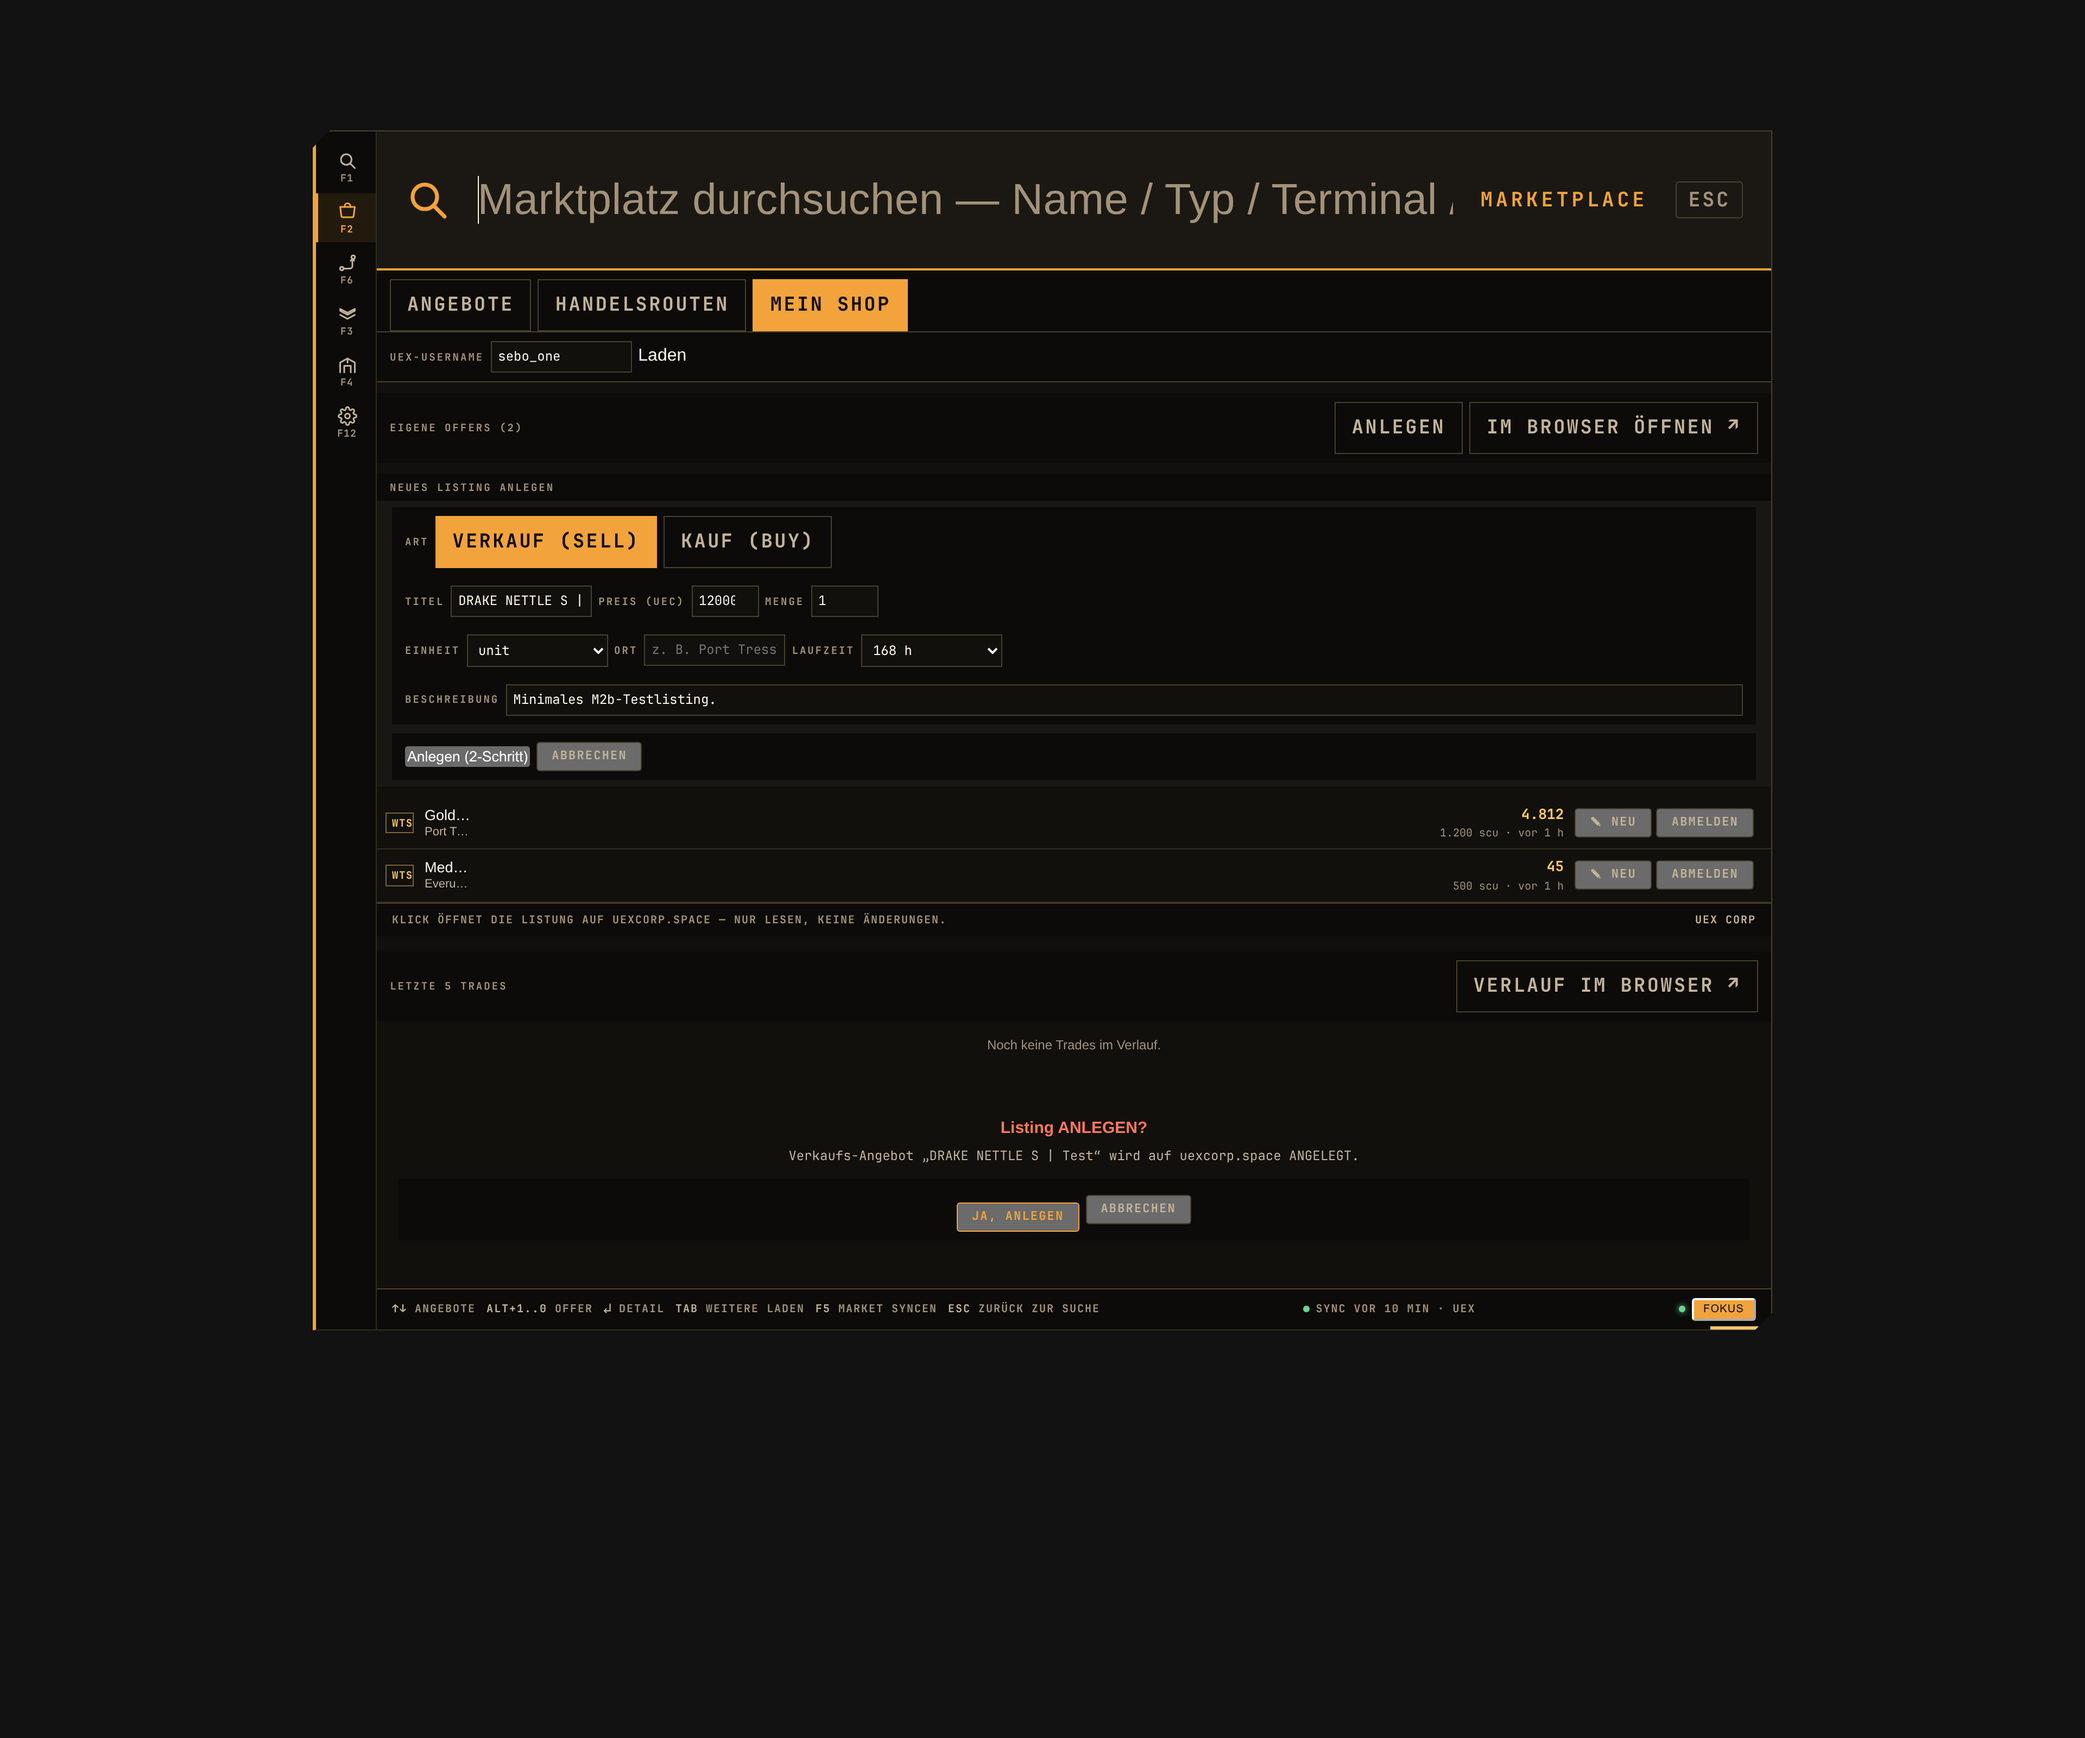
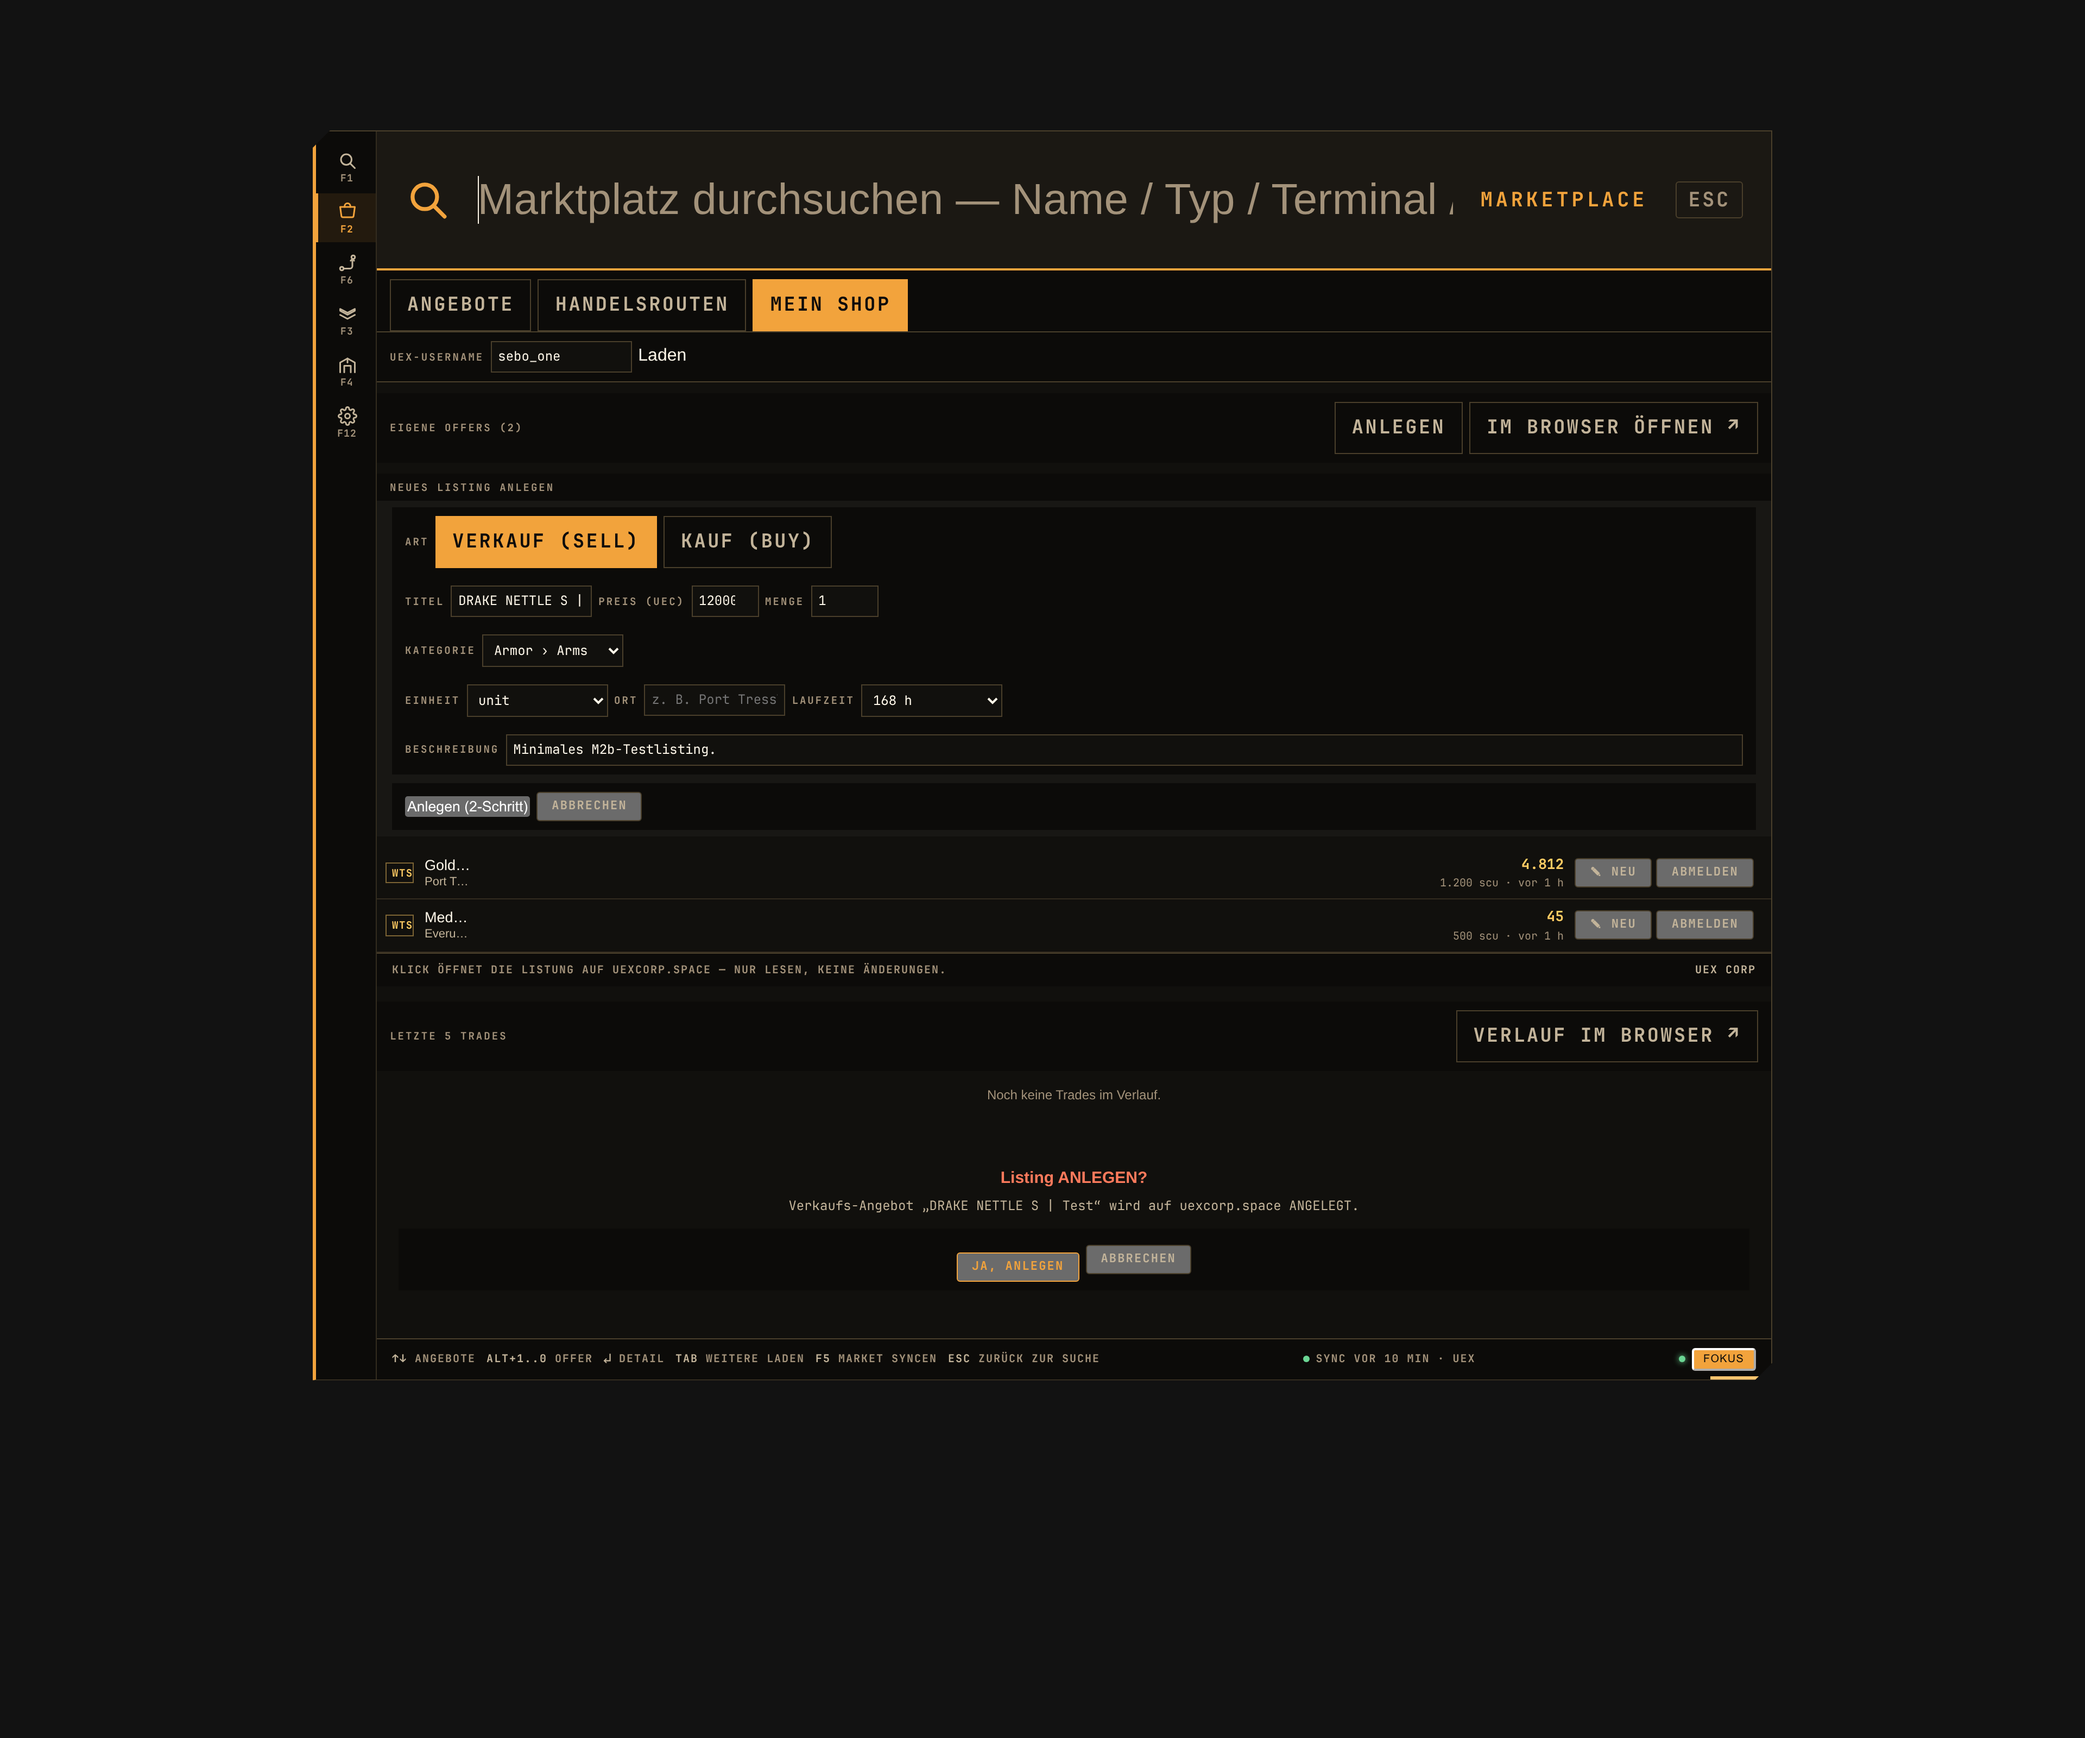
M2b Fix t_6e26ec82 (Belege): Probe W5 Kategorie-Pflicht — Dropdown geladen, OHNE Auswahl kein Confirm + deutsche Meldung + kein Write (marketplace_advertise-Zähler 0), Payload-Assertion id_category>0; get_categories-Stub (Section›Name), Screenshots W1 (mit Kategorie) + W5 (blockiert)

diff --git a/docs/scripts/smoke-stub.js b/docs/scripts/smoke-stub.js
@@ -172,7 +172,7 @@ window.__TAURI_INTERNALS__ = {
 				// Neues Listing an den OWN-OFFERS-Array anfügen (Pull im UI zeigt es).
 				window.__SHOP_OFFERS__ = [{
 					id: nid, title: p.title || 'Neu', description: p.description || '',
-					item_id: 0, category_id: 0, operation: p.operation || 'sell',
+					item_id: 0, category_id: Number(p.id_category || 0), operation: p.operation || 'sell',
 					listing_type: 'item', price: Number(p.price || 0), currency: 'UEC',
 					unit: p.unit || 'unit', quantity: Number(p.in_stock || 1),
 					location: p.location || '—', region: 'Stanton', seller: stubState.uex_username || 'sebo_one',
@@ -193,6 +193,16 @@ window.__TAURI_INTERNALS__ = {
 			case 'settings_set_marketplace_confirm':
 				stubState.marketplace_confirm = a.mode || 'every_action';
 				return { marketplace_confirm: stubState.marketplace_confirm };
+			case 'get_categories':
+				// M2b-Review-Fix (t_6e26ec82): Kategorien für die Anlegen-Form —
+				// UEX /categories (id + Anzeigename), Mirror der Provider-DTOs.
+				return [
+					{ id: 1, name: 'Arms', section: 'Armor' },
+					{ id: 2, name: 'Backpacks', section: 'Armor' },
+					{ id: 3, name: 'Armor', section: null },
+					{ id: 4, name: 'Weapons', section: null },
+					{ id: 5, name: 'MedPens', section: null }
+				];
 			case 'open_marketplace_listing':
 				// Nur Tracken — kein echtes Browserfenster im Headless-Smoke.
 				return 'https://uexcorp.space/marketplace/item/info/' + encodeURIComponent(a.slug || '');

diff --git a/docs/scripts/shop-write-probe.py b/docs/scripts/shop-write-probe.py
@@ -202,6 +202,8 @@ async def main():
 
         # Pflichtangaben füllen (Titel + Beschreibung; Preis/Menge explizit —
         # emptyAdvertise startet price:'' und die App lehnt leeren Preis korrekt ab).
+        # M2b-Review-Fix: Kategorie ist Pflicht (id_category) — im <select>
+        # die erste angebotene Kategorie wählen.
         fill = ("(function(){"
                 "function setVal(sel,v){var i=typeof sel==='string'?document.querySelector(sel):sel;"
                 "var set=Object.getOwnPropertyDescriptor(window.HTMLInputElement.prototype,'value').set;"
@@ -209,6 +211,8 @@ async def main():
                 "setVal('input[placeholder*=Artikelname]','DRAKE NETTLE S | Test');"
                 "setVal('input[placeholder*=Freitext]','Minimales M2b-Testlisting.');"
                 "setVal(document.querySelectorAll('input.qnum')[0],'120000');"
+                "var cat=document.querySelector('select[aria-label=Kategorie]');"
+                "if(cat){cat.value=cat.options[1].value;cat.dispatchEvent(new Event('change',{bubbles:true}));}"
                 "return true;})()")
         await js(fill)
         await asyncio.sleep(0.3)
@@ -233,6 +237,17 @@ async def main():
         after = json.loads(str(await js("JSON.stringify(window.__calls||[])")) or "[]")
         adv = [c for c in after if "marketplace_advertise" in c]
         check("w1-marketplace_advertise-fired", len(adv) >= 1, str(adv[:1]))
+        # M2b-Review-Fix: der Payload trägt id_category (Zahl, nicht null) —
+        # ohne sie lehnt UEX den Item-Create mit 400 missing_id_category ab.
+        payload_cat = None
+        for c in after:
+            if "marketplace_advertise" in c:
+                try:
+                    args = json.loads(c.split(":", 1)[1])
+                    payload_cat = args.get("payload", {}).get("id_category")
+                except Exception:
+                    pass
+        check("w1-payload-carries-id_category", isinstance(payload_cat, int) and payload_cat > 0, "id_category=" + str(payload_cat))
         # PULL: neues Listing ist in der Offers-Liste sichtbar.
         title_shown = await js("document.body.innerText.includes('DRAKE NETTLE S | Test')")
         check("w1-pull-shows-new-offer", title_shown is True)
@@ -286,7 +301,7 @@ async def main():
         await enter_shop()
         await click_chip("Anlegen")
         await asyncio.sleep(0.4)
-        await js("(function(){function setVal(sel,v){var i=typeof sel==='string'?document.querySelector(sel):sel;var set=Object.getOwnPropertyDescriptor(window.HTMLInputElement.prototype,'value').set;set.call(i,v);i.dispatchEvent(new InputEvent('input',{bubbles:true,inputType:'insertText',data:v}));}setVal('input[placeholder*=Artikelname]','Desperation A');setVal('input[placeholder*=Freitext]','Delete-only Test.');setVal(document.querySelectorAll('input.qnum')[0],'45000');return true;})()")
+        await js("(function(){function setVal(sel,v){var i=typeof sel==='string'?document.querySelector(sel):sel;var set=Object.getOwnPropertyDescriptor(window.HTMLInputElement.prototype,'value').set;set.call(i,v);i.dispatchEvent(new InputEvent('input',{bubbles:true,inputType:'insertText',data:v}));}setVal('input[placeholder*=Artikelname]','Desperation A');setVal('input[placeholder*=Freitext]','Delete-only Test.');setVal(document.querySelectorAll('input.qnum')[0],'45000');var cat=document.querySelector('select[aria-label=Kategorie]');if(cat){cat.value=cat.options[1].value;cat.dispatchEvent(new Event('change',{bubbles:true}));}return true;})()")
         await asyncio.sleep(0.3)
         await click_btn("Anlegen (2-Schritt)")
         await asyncio.sleep(0.6)
@@ -331,6 +346,42 @@ async def main():
         a4 = json.loads(str(await js("JSON.stringify(window.__calls||[])")) or "[]")
         check("w4-no-auto-retry", len(a4) == len(b4), f"invokes before/after={len(b4)}/{len(a4)}")
         await shot("shop-w4-error-path.png")
+
+        # ---------------------------------------------------------------
+        # W5 — KATEGORIE-PFLICHT (M2b-Review-Fix t_6e26ec82): Formular ohne
+        #      Kategorie-Auswahl → deutsche Meldung + KEIN Write (UEX würde
+        #      400 missing_id_category senden — die UI verhindert den POST).
+        # ---------------------------------------------------------------
+        await navigate(
+            "window.__stubState.uex_api_key_set = true;"
+            "window.__stubState.uex_secret_key_set = true;"
+            "localStorage.setItem('architects-overlay.shop.username','sebo_one');"
+            "window.__SHOP_OFFERS__ = " + SHOP_OFFERS + ";"
+            "window.__stubState.marketplace_confirm = 'every_action';"
+        )
+        await invoke_watch()
+        await enter_shop()
+        await click_chip("Anlegen")
+        await asyncio.sleep(0.6)
+        # Kategorien-Dropdown ist geladen (get_categories-Stub).
+        cats = await js("[...document.querySelectorAll('select[aria-label=Kategorie] option')].map(function(o){return o.value;})")
+        check("w5-category-dropdown-loaded", isinstance(cats, list) and len(cats) >= 2, "options=" + str(cats))
+        # Formular OHNE Kategorie füllen (Default '' = bitte wählen).
+        await js("(function(){function setVal(sel,v){var i=typeof sel==='string'?document.querySelector(sel):sel;var set=Object.getOwnPropertyDescriptor(window.HTMLInputElement.prototype,'value').set;set.call(i,v);i.dispatchEvent(new InputEvent('input',{bubbles:true,inputType:'insertText',data:v}));}setVal('input[placeholder*=Artikelname]','Keine Kategorie');setVal('input[placeholder*=Freitext]','Soll ohne Kategorie scheitern.');setVal(document.querySelectorAll('input.qnum')[0],'5000');return true;})()")
+        await asyncio.sleep(0.3)
+        await click_btn("Anlegen (2-Schritt)")
+        await asyncio.sleep(0.5)
+        # Confirm-Dialog darf NICHT erscheinen; stattdessen deutsche Meldung.
+        no_confirm5 = await js("!document.body.innerText.includes('Listing ANLEGEN?')")
+        check("w5-no-confirm-without-category", no_confirm5 is True)
+        # Die Meldung rendert als .chip.warn im Formular (innerText verdeckt
+        # sie wegen overflow-clipped Container — DOM-Assertion auf das Element).
+        msg5 = await js("(function(){var c=[...document.querySelectorAll('.chip.warn')].find(function(x){return (x.textContent||'').includes('Bitte eine Kategorie wählen');}); return !!c;})()")
+        check("w5-german-category-message", msg5 is True)
+        after5 = json.loads(str(await js("JSON.stringify(window.__calls||[])")) or "[]")
+        adv5 = [c for c in after5 if "marketplace_advertise" in c]
+        check("w5-no-write-without-category", len(adv5) == 0, "kein marketplace_advertise")
+        await shot("shop-w5-missing-category-blocked.png")
 
     # Cleanup
     proc.terminate()
